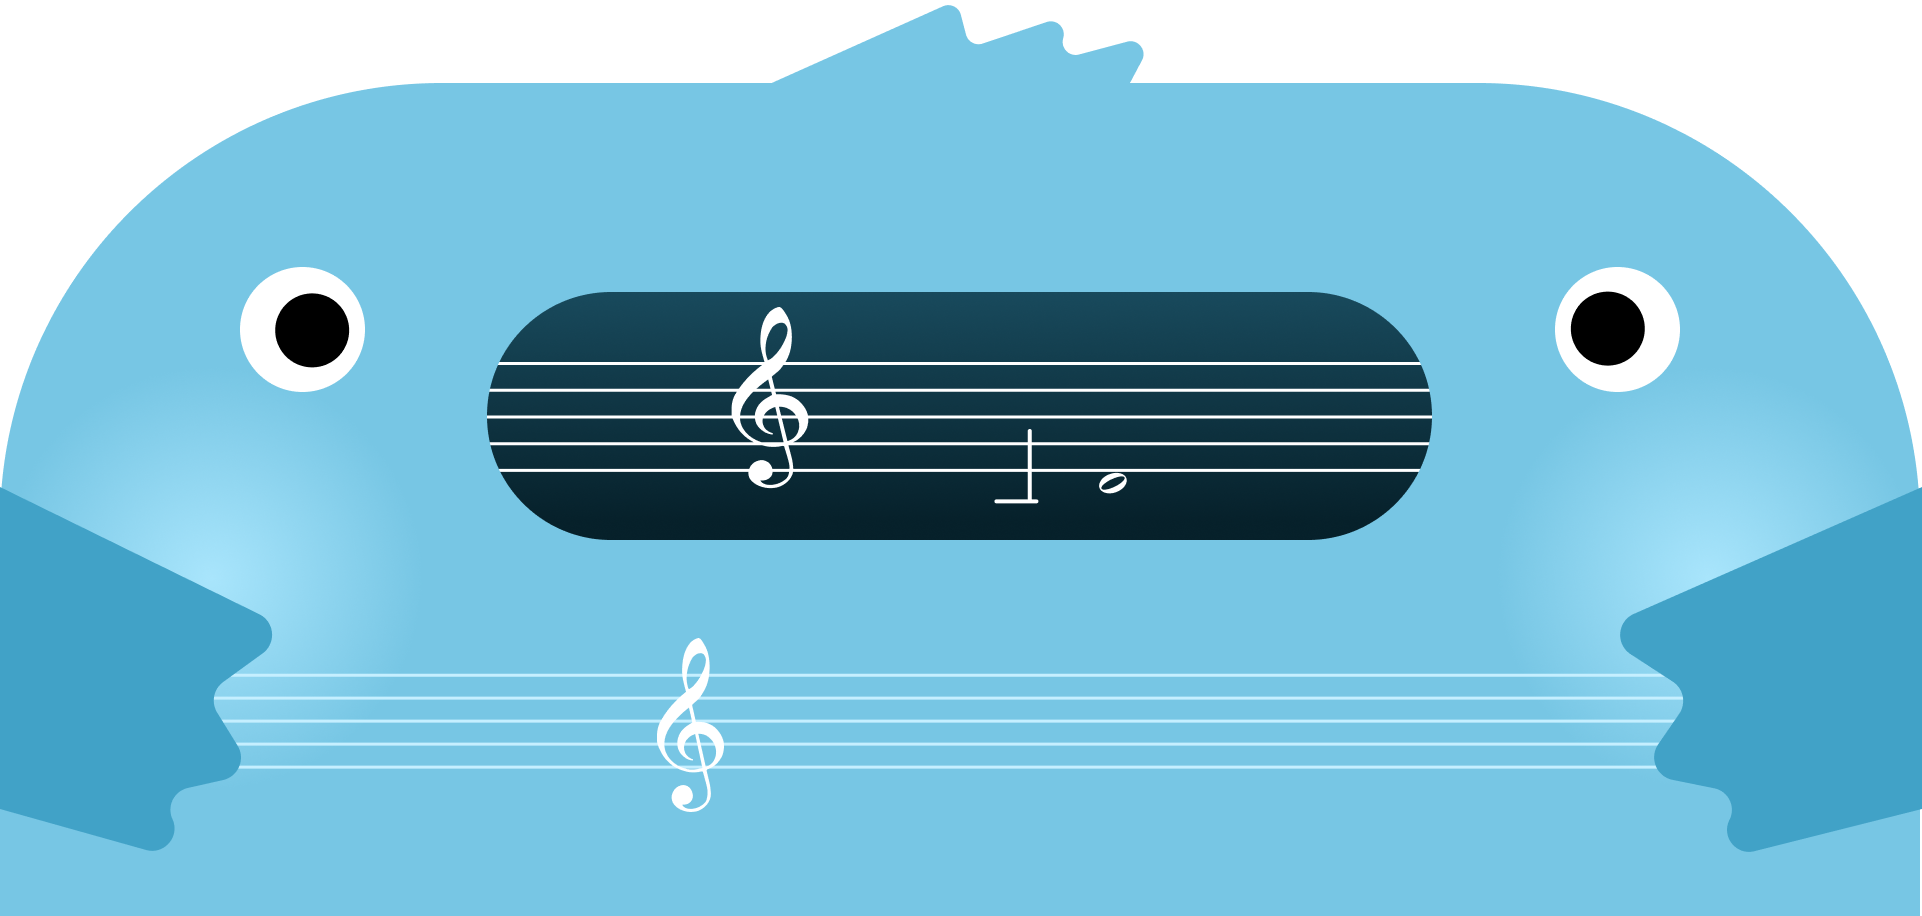
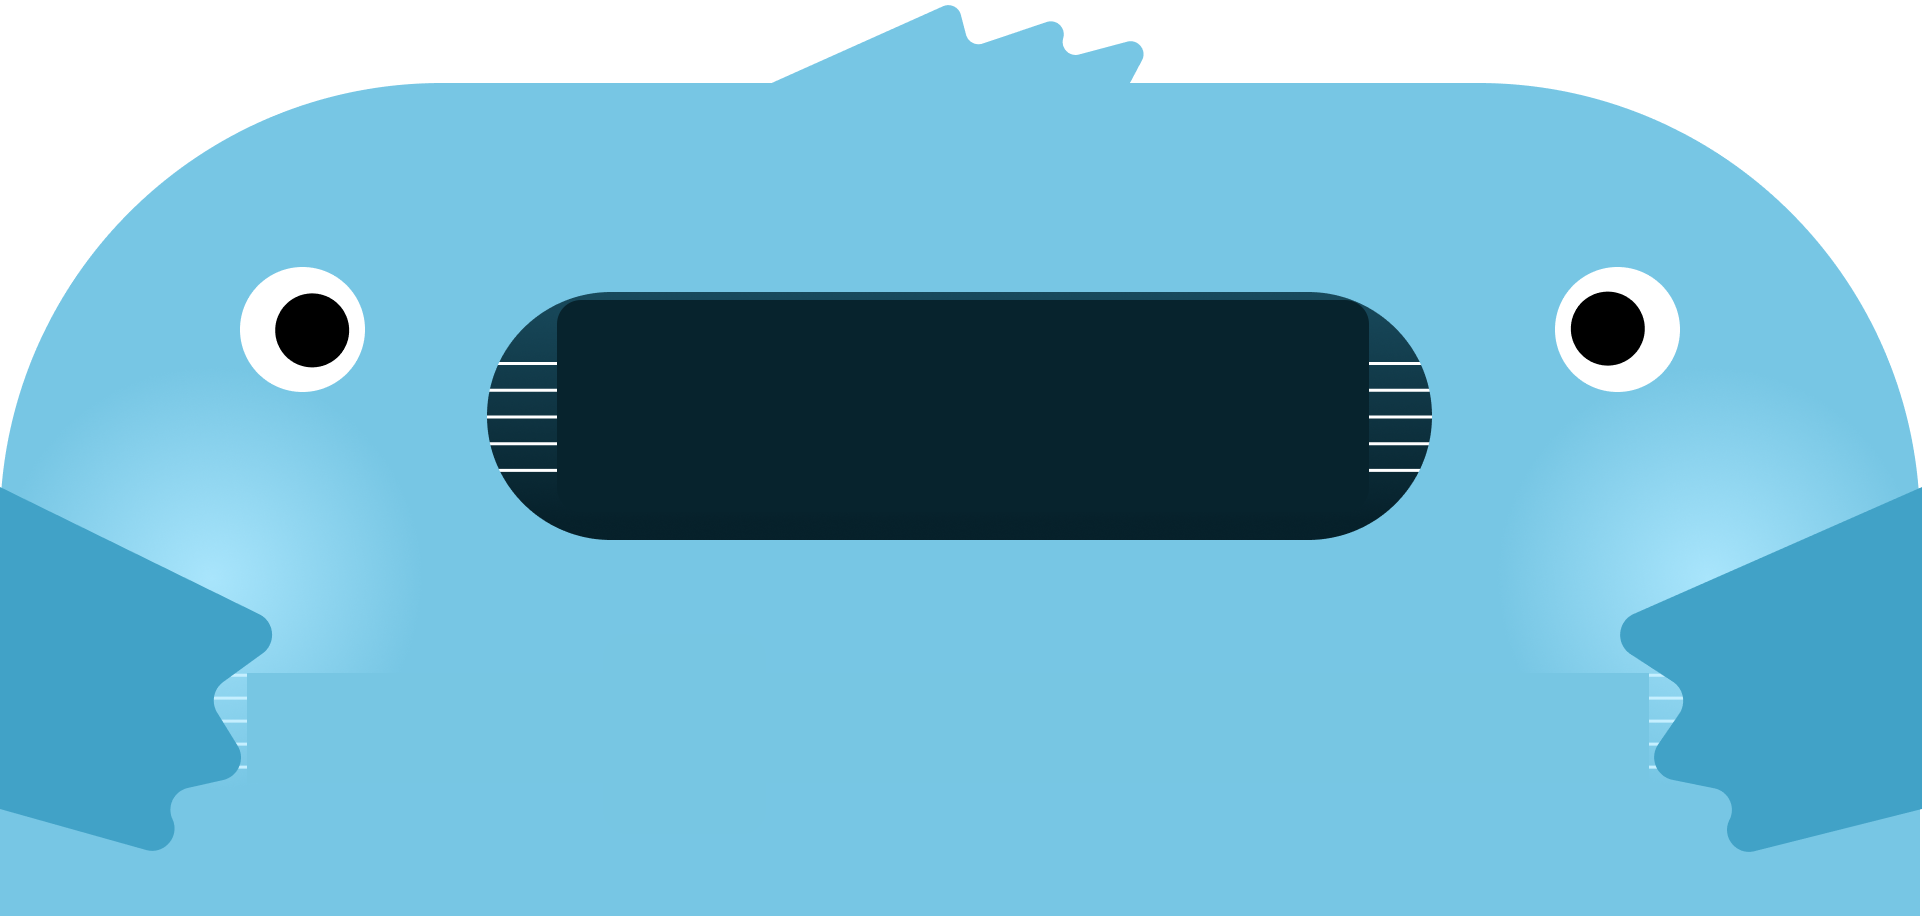
completed game migrartion and some UI updating.

Changed region(s): [[0.281, 0.3057, 0.718, 0.5502], [0.1249, 0.7031, 0.8741, 0.8865]]

diff --git a/machainst/main.py b/machainst/main.py
@@ -228,16 +228,13 @@ class UI(Joystick, Game):
                 self.fs.program_select(1, self.sfid, 0, self.inst)
 
             if self.play_mode.getSelected():
-                self.playing_game = self.play_mode.getSelected()
+                game_mode = self.play_mode.getSelected()
+                self.playing_game = game_mode
 
             # DRAWING STEP
             # First, clear the screen. Don't put other drawing commands
             self.screen.fill(Colors.BACKGROUND.value)
             text_print.reset()
-
-            # draw the backgrounds.
-            self.screen.blit(self.ui_background_dots, (0, 0))
-            self.screen.blit(self.ui_background_character, (0, 164))
 
             # Get count of joysticks
             joystick_count = pg.joystick.get_count()
@@ -257,6 +254,10 @@ class UI(Joystick, Game):
                               self.name_help
                               )
 
+                # draw the backgrounds.
+                self.screen.blit(self.ui_background_dots, (0, 0))
+                self.screen.blit(self.ui_background_character, (0, 164))
+
                 # text_print.print(self.screen, "Compass")
                 # text_print.print(self.screen, "arrow_direction")
                 # text_print.print(self.screen, "arrow_colour")
@@ -267,7 +268,7 @@ class UI(Joystick, Game):
                 text_print.print(self.screen, "goes at sub level    {}".format(self.sub_level_rounds))
                 text_print.print(self.screen, "guesses    {}".format(self.tries))
                 text_print.print(self.screen, "lives    {}".format(self.lives))
-                text_print.print(self.screen, "Feedback    ")
+                text_print.print(self.screen, "Feedback    {}".format(self.feedback))
 
                 #############
                 # JOYSTICK LOOP
@@ -281,8 +282,6 @@ class UI(Joystick, Game):
 
                     # make solfa
                     solfa = Solfa[compass].value
-                    # add feedback from game
-                    text_print.print(self.screen, "Feedback    {}".format(self.feedback))
 
                     # print to screen
                     self.screen.fill(Colors.BACKGROUND.value)
@@ -298,6 +297,8 @@ class UI(Joystick, Game):
                     text_print.print(self.screen, "goes at sub level    {}".format(self.sub_level_rounds))
                     text_print.print(self.screen, "guesses    {}".format(self.tries))
                     text_print.print(self.screen, "lives    {}".format(self.lives))
+                    # add feedback from game
+                    text_print.print(self.screen, "Feedback    {}".format(self.feedback))
 
                     # freeze guess on screen if game_lock
                     # if not self.game_lock:
@@ -403,6 +404,7 @@ class UI(Joystick, Game):
             self.game_note_path = self.path_to_generated_images + note_to_show
 
         # false guess
+
         else:
             print("RETRY")
             sleep(0.2)
@@ -425,7 +427,7 @@ class UI(Joystick, Game):
         note = pg.transform.scale_by(note, 0.5)
         # Create a rect with the size of the image.
         rect = note.get_rect()
-        rect.center = ((WindowSize.WIDTH / 2) + 10, (WindowSize.HEIGHT / 2) + 50)
+        rect.center = ((WindowSize.WIDTH / 2) + 10, (WindowSize.HEIGHT / 2) + 200)
         self.screen.blit(note, rect)
 
 
